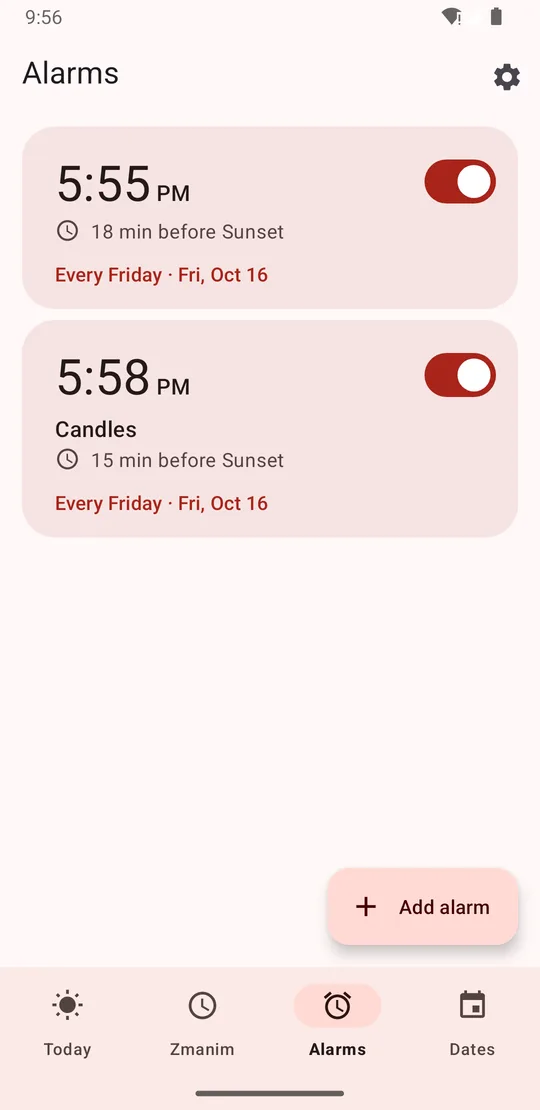
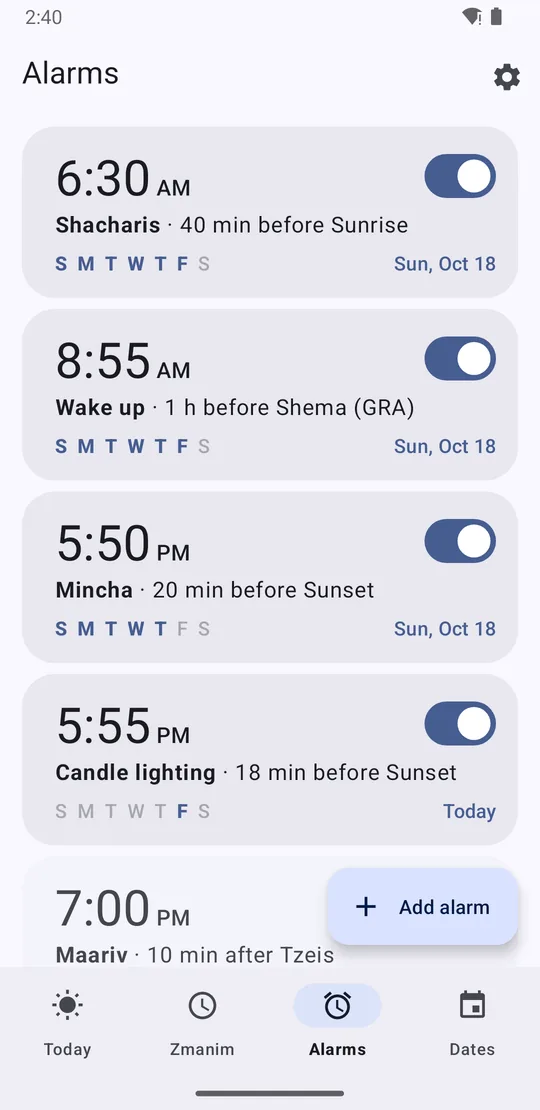
New Alarm Clock screenshots (light, dark, wallpaper colours, Hebrew) and a hero graphic

diff --git a/alarm-clock/index.html b/alarm-clock/index.html
@@ -5,6 +5,11 @@
 <meta name="viewport" content="width=device-width, initial-scale=1, viewport-fit=cover">
 <title>Halachic Alarm Clock · Halachic Applications</title>
 <meta name="description" content="The Halachic Alarm Clock for Android sets alarms by zmanim, so they move with the sun. Quiet on Shabbos and Yom Tov, with your own shitos and minhag.">
+<meta property="og:title" content="Halachic Alarm Clock">
+<meta property="og:description" content="Alarms that move with the sun. Set it to a zman once; it rings at the right time every day and stays quiet on Shabbos and Yom Tov.">
+<meta property="og:image" content="https://halachicapplications.com/img/alarm-clock-og.png">
+<meta property="og:url" content="https://halachicapplications.com/alarm-clock/">
+<meta name="twitter:card" content="summary_large_image">
 <link rel="icon" href="../favicon.svg" type="image/svg+xml">
 <link rel="apple-touch-icon" href="../apple-touch-icon.png">
 <link rel="preconnect" href="https://fonts.googleapis.com">
@@ -69,11 +74,18 @@
 
   <section id="screens">
     <div class="wrap">
+      <div class="section-head">
+        <span class="eyebrow">Screens</span>
+        <h2>Looks the way you like</h2>
+        <p class="lede">Light or dark, the app’s own red or your wallpaper’s colours, in English or Hebrew.</p>
+      </div>
       <div class="shots">
-        <figure class="shot"><img src="../img/today.webp" alt="Today screen: Hebrew date, Rosh Chodesh, the next alarm and the next zman with a countdown" loading="lazy" width="540" height="1110"><figcaption>Today at a glance</figcaption></figure>
-        <figure class="shot"><img src="../img/zmanim.webp" alt="Zmanim screen listing dawn, sunrise, Shema (MGA and GRA), Tefila, midday and Mincha times" loading="lazy" width="540" height="1110"><figcaption>The day’s zmanim</figcaption></figure>
-        <figure class="shot"><img src="../img/alarms.webp" alt="Alarms screen with two Friday alarms set relative to sunset" loading="lazy" width="540" height="1110"><figcaption>Alarms tied to zmanim</figcaption></figure>
-        <figure class="shot"><img src="../img/editor.webp" alt="Alarm editor: 18 minutes before sunset, every Friday, with a Ring on Shabbos and Yom Tov switch" loading="lazy" width="540" height="1110"><figcaption>Set it once</figcaption></figure>
+        <figure class="shot"><img src="../img/today.webp" alt="Today screen in light mode: Friday's date and Hebrew date, the next alarm for candle lighting at 5:55 PM, and the zmanim coming up" loading="lazy" width="540" height="1110"><figcaption>Today at a glance</figcaption></figure>
+        <figure class="shot"><img src="../img/zmanim.webp" alt="Zmanim screen in dark mode listing dawn, sunrise, Shema (MGA and GRA), Tefila, midday and Mincha times" loading="lazy" width="540" height="1110"><figcaption>The day’s zmanim, in dark mode</figcaption></figure>
+        <figure class="shot"><img src="../img/alarms.webp" alt="Alarms screen in blue wallpaper colours: Shacharis, Wake up, Mincha and Candle lighting alarms, each tied to a zman" loading="lazy" width="540" height="1110"><figcaption>Alarms tied to zmanim</figcaption></figure>
+        <figure class="shot"><img src="../img/editor.webp" alt="Alarm editor in dark green: 18 minutes before sunset, every Friday, with switches for Shabbos and erev Yom Tov" loading="lazy" width="540" height="1110"><figcaption>Set it once</figcaption></figure>
+        <figure class="shot"><img src="../img/dates.webp" alt="Dates screen in purple: two yahrzeits and a Hebrew birthday, with the civil date each falls on this year" loading="lazy" width="540" height="1110"><figcaption>Yahrzeits and Hebrew birthdays</figcaption></figure>
+        <figure class="shot"><img src="../img/hebrew.webp" alt="Today screen in Hebrew, dark teal: the next alarm and the zmanim coming up" loading="lazy" width="540" height="1110"><figcaption>Fully in Hebrew</figcaption></figure>
       </div>
       <p class="swipe-hint" aria-hidden="true">Swipe for more screens →</p>
     </div>

diff --git a/css/site.css b/css/site.css
@@ -99,6 +99,8 @@ section { padding-block: clamp(3rem, 7vw, 5rem); }
   display: grid; gap: 1.1rem; align-content: start; min-width: 0;
   background: var(--surface-2); border: 1px solid var(--line); border-radius: var(--radius); padding: clamp(1.25rem, 3vw, 2rem);
 }
+.card-art { display: block; margin: calc(-1 * clamp(1.25rem, 3vw, 2rem)) calc(-1 * clamp(1.25rem, 3vw, 2rem)) 0.25rem; }
+.card-art img { width: 100%; height: auto; border-radius: var(--radius) var(--radius) 0 0; }
 .app-card h2 { font-size: clamp(1.5rem, 3vw, 1.9rem); }
 .app-card h2 a { color: inherit; text-decoration: none; }
 .app-card .lede { font-size: 1.05rem; }
@@ -117,10 +119,10 @@ section { padding-block: clamp(3rem, 7vw, 5rem); }
 .arc-caption { font-size: 0.85rem; color: var(--muted); padding-top: 0.25rem; }
 
 /* Screenshots */
-.shots { display: grid; grid-template-columns: repeat(4, minmax(0, 1fr)); gap: clamp(1rem, 2.5vw, 2rem); margin-block: 0 1rem; }
+.shots { display: grid; grid-template-columns: repeat(3, minmax(0, 1fr)); gap: clamp(1.5rem, 3vw, 2.5rem) clamp(1rem, 2.5vw, 2rem); margin-block: 0 1rem; }
 @media (max-width: 900px) { .shots { grid-template-columns: repeat(2, minmax(0, 1fr)); } }
-.shot { display: grid; gap: 0.6rem; margin: 0; }
-.shot img { width: 100%; max-width: 320px; height: auto; margin-inline: auto; border-radius: 26px; border: 7px solid #1b1e22; background: #1b1e22; box-shadow: 0 10px 30px rgba(20, 24, 28, 0.14); }
+.shot { display: grid; gap: 0.6rem; margin: 0; align-content: start; }
+.shot img { width: 100%; max-width: 280px; height: auto; margin-inline: auto; border-radius: 26px; border: 7px solid #1b1e22; background: #1b1e22; box-shadow: 0 10px 30px rgba(20, 24, 28, 0.14); }
 .shot figcaption { font-size: 0.9rem; color: var(--muted); text-align: center; }
 .swipe-hint { display: none; }
 

diff --git a/index.html b/index.html
@@ -5,6 +5,11 @@
 <meta name="viewport" content="width=device-width, initial-scale=1, viewport-fit=cover">
 <title>Halachic Applications</title>
 <meta name="description" content="Halachic Applications makes Android apps for the Jewish day: the Halachic Alarm Clock, with alarms set by zmanim, and the Shabbos List.">
+<meta property="og:title" content="Halachic Applications">
+<meta property="og:description" content="Android apps for the Jewish day: the Halachic Alarm Clock, with alarms set by zmanim, and the Shabbos List.">
+<meta property="og:image" content="https://halachicapplications.com/img/alarm-clock-og.png">
+<meta property="og:url" content="https://halachicapplications.com/">
+<meta name="twitter:card" content="summary_large_image">
 <link rel="icon" href="favicon.svg" type="image/svg+xml">
 <link rel="apple-touch-icon" href="apple-touch-icon.png">
 <link rel="preconnect" href="https://fonts.googleapis.com">
@@ -50,6 +55,7 @@
   <section style="padding-top:1.5rem">
     <div class="wrap apps">
       <article class="app-card">
+        <a class="card-art" href="alarm-clock/" tabindex="-1" aria-hidden="true"><img src="img/alarm-clock-hero.webp" alt="" width="2400" height="1350"></a>
         <div class="app-id">
           <img class="app-icon" src="img/logos/alarm-clock.svg" alt="" width="56" height="56">
           <div>
